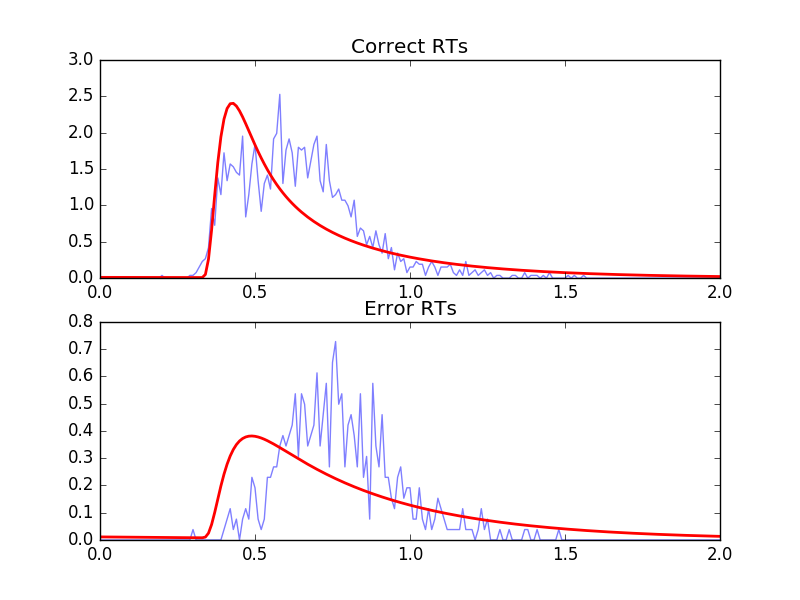
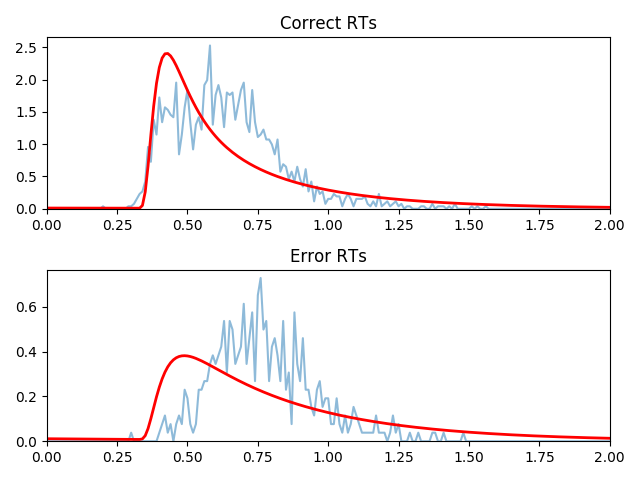
Quickstart improvements

Changed region(s): [[0.0312, 0.0312, 0.9688, 0.9688], [0.375, 0.9375, 0.4375, 0.9688]]

diff --git a/doc/downloads/roitman_shadlen.py b/doc/downloads/roitman_shadlen.py
@@ -102,3 +102,53 @@ plt.show()
 # To get an intuition for how parameters affect the fit, play with the
 # parameters and task conditions in a GUI.
 ddm.plot.model_gui(model=fit_model_rs, sample=roitman_sample)
+
+
+# Let's try to improve the model fit.
+
+# We define a model which allows us to use a coherence-dependent leaky integrator.
+class DriftCoherenceLeak(ddm.models.Drift):
+    name = "Leaky drift depends linearly on coherence"
+    required_parameters = ["driftcoh", "leak"] # <-- Parameters we want to include in the model
+    required_conditions = ["coh"] # <-- Task parameters ("conditions"). Should be the same name as in the sample.
+    
+    # We must always define the get_drift function, which is used to compute the instantaneous value of drift.
+    def get_drift(self, x, conditions, **kwargs):
+        return self.driftcoh * conditions['coh'] + self.leak * x
+
+# Now define the model using a leaky 
+from ddm.models import BoundCollapsingExponential
+model_leak = Model(name='Roitman data, leaky drift varies with coherence',
+                   drift=DriftCoherenceLeak(driftcoh=Fittable(minval=0, maxval=20),
+                                            leak=Fittable(minval=-10, maxval=10)),
+                   noise=NoiseConstant(noise=1),
+                   bound=BoundCollapsingExponential(B=Fittable(minval=0.5, maxval=3),
+                                                    tau=Fittable(minval=.0001, maxval=5)),
+                   # Since we can only have one overlay, we use
+                   # OverlayChain to string together multiple overlays.
+                   # They are applied sequentially in order.  OverlayDelay
+                   # implements a non-decision time by shifting the
+                   # resulting distribution of response times by
+                   # `delaytime` seconds.
+                   overlay=OverlayChain(overlays=[OverlayNonDecision(nondectime=Fittable(minval=0, maxval=.4)),
+                                                  OverlayPoissonMixture(pmixturecoef=.02,
+                                                                        rate=1)]),
+                   dx=.01, dt=.01, T_dur=2)
+
+# Fitting this will also be fast because we can automatically
+# determine that DriftCoherence will allow an analytical solution.
+fit_model_leak = fit_adjust_model(sample=roitman_sample, model=model_leak)
+ddm.plot.plot_fit_diagnostics(model=fit_model_leak, sample=roitman_sample)
+plt.savefig("leak-collapse-fit.png")
+# If the fitting step is too slow, you can use this pre-fit model:
+#     Model(name='Roitman data, leaky drift varies with coherence',
+#           drift=DriftCoherenceLeak(driftcoh=10.49091, leak=-.482),
+#           noise=NoiseConstant(noise=1),
+#           bound=BoundCollapsingExponential(B=1.811, tau=1.992),
+#           overlay=OverlayChain(overlays=[OverlayNonDecision(nondectime=.211),
+#                                          OverlayPoissonMixture(pmixturecoef=0.02, rate=1)]),
+#           dx=0.01, dt=0.01, T_dur=2)
+
+# Or, in a form which you can copy and paste:
+#     Model(name='Roitman data, leaky drift varies with coherence', drift=DriftCoherenceLeak(driftcoh=10.49091, leak=-.482), noise=NoiseConstant(noise=1), bound=BoundCollapsingExponential(B=1.811, tau=1.992), overlay=OverlayChain(overlays=[OverlayNonDecision(nondectime=.211), OverlayPoissonMixture(pmixturecoef=0.02, rate=1)]), dx=0.01, dt=0.01, T_dur=2)
+

diff --git a/doc/quickstart.rst b/doc/quickstart.rst
@@ -43,14 +43,16 @@ should be passed to the constructor.  Similarly,
 :class:`.NoiseConstant` takes the parameter "noise" to determine the
 standard deviation of the drift process, and
 :class:`.OverlayNonDecision` takes "nondectime", the non-decision time
-(efferent/afferent/apparatus delay) in seconds.  By contrast,
-:class:`.ICPointSourceCenter` does not take any parameters.
+(efferent/afferent/apparatus delay) in seconds.  Some model
+components, such as :class:`.ICPointSourceCenter` which represents a
+starting point initial condition directly in between the bounds, does
+not take any parameters.
 
 For example, the following is a DDM with drift 2.2, noise 1.5, bound
 1.1, and a 100ms non-decision time.  It is simulated for 2 seconds
-(``T_dur``) with reasonable timestep and grid size (``dt``
-and ``dx``).  Once we define the model, the :meth:`~.Model.solve`
-function runs the simulation.  This can be computed as shown below:
+(``T_dur``) with reasonable timestep and grid size (``dt`` and
+``dx``).  Once we define the model, the :meth:`~.Model.solve` function
+runs the simulation.  This model can be described as shown below:
 
 .. literalinclude:: downloads/simple.py
    :language: python
@@ -212,8 +214,16 @@ needs:
    :language: python
    :lines: 58-66
 
-Then, we can construct a model which uses this and fit the data to the
-model:
+Because we are fitting with likelihood, we must include a baseline
+lapse rate to avoid taking the log of 0.  Traditionally this is
+implemented with a uniform distribution, but PyDDM can also use an
+exponential distribution using
+:class:`~.models.overlay.OverlayPoissonMixture` (representing a
+Poisson process lapse rate), as we use here.  However, since we also
+want a non-decision time, we need to use two Overlay objects.  To
+accomplish this, we can use an :class:`~.models.overlay.OverlayChain`
+object.  Then, we can construct a model which uses this and fit the
+data to the model:
 
 .. literalinclude:: downloads/roitman_shadlen.py
    :language: python
@@ -274,6 +284,8 @@ and save a graph:
 
 .. image:: images/roitman-fit.png
 
+This model does not seem to fit the data very well.
+
 We can alternatively explore this with the PyDDM's model GUI:
 
 .. literalinclude:: downloads/roitman_shadlen.py
@@ -285,6 +297,44 @@ We can alternatively explore this with the PyDDM's model GUI:
 See :doc:`modelgui` for more info.
 
 :download:`Download this full example <downloads/roitman_shadlen.py>`
+
+
+Improving the fit
+-----------------
+
+Let's see if we can improve the fit by including additional model
+components.  We will include exponentially collapsing bounds and use a
+leaky or unstable integrator instead of a perfect integrator.
+
+To use a coherence-dependent leaky or unstable integrator, we can
+build a drift model which incorporates the position of the decision
+variable to either increase or decrease drift rate.  This can be
+accomplished by making ``get_drift`` depend on the argument ``x``.
+
+.. literalinclude:: downloads/roitman_shadlen.py
+   :language: python
+   :lines: 110-117
+
+Collapsing bounds are already included in PyDDM, and can be accessed
+with :class:`~.models.bound.BoundCollapsingExponential`.
+
+Thus, the full model definition is
+
+.. literalinclude:: downloads/roitman_shadlen.py
+   :language: python
+   :lines: 120-136
+
+We can fit this and save it as an image using the following.  Note
+that this may take a while (hours) due to the increased number of
+parameters and because the earlier examples were able to use the
+analytical solver but the present example must use backward Euler.
+For all coherences, the fit is:
+
+.. literalinclude:: downloads/roitman_shadlen.py
+   :language: python
+   :lines: 140-142
+
+.. image:: images/leak-collapse-fit.png
 
 Going further
 -------------
